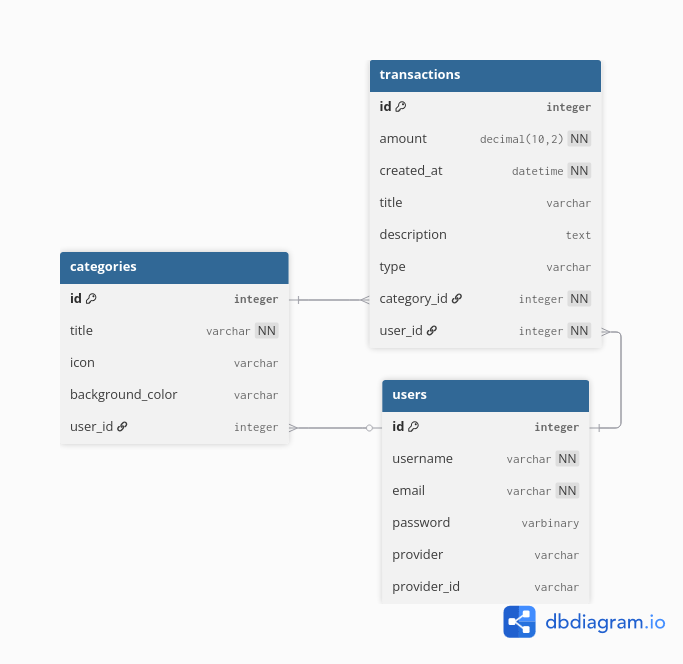
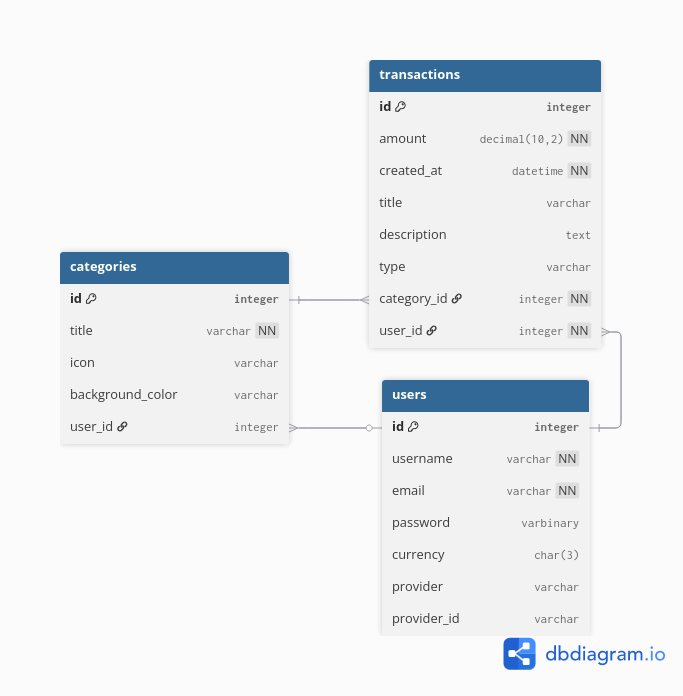
refactored User entity and added "currency" to User table. besides that, refactored and removed unused imports on other files

diff --git a/Backend/Trifolium/src/main/java/com/alorisse/trifolium/controller/UserController.java b/Backend/Trifolium/src/main/java/com/alorisse/trifolium/controller/UserController.java
@@ -2,16 +2,13 @@ package com.alorisse.trifolium.controller;
 
 import com.alorisse.trifolium.mapper.UserMapper;
 import com.alorisse.trifolium.model.dto.UserResponseDTO;
+import com.alorisse.trifolium.model.dto.UserUpdateRequestDTO;
 import com.alorisse.trifolium.model.entity.User;
-import com.alorisse.trifolium.repository.UserRepository;
-import org.springframework.http.HttpStatus;
+import com.alorisse.trifolium.service.UserService;
+import jakarta.validation.Valid;
 import org.springframework.http.ResponseEntity;
 import org.springframework.security.core.Authentication;
-import org.springframework.web.bind.annotation.GetMapping;
-import org.springframework.web.bind.annotation.RequestAttribute;
-import org.springframework.web.bind.annotation.RequestMapping;
-import org.springframework.web.bind.annotation.RestController;
-import org.springframework.web.server.ResponseStatusException;
+import org.springframework.web.bind.annotation.*;
 
 @RestController
 @RequestMapping("/users")
@@ -19,14 +16,36 @@ public class UserController {
 
     private final UserMapper userMapper;
 
-    public UserController(UserMapper userMapper) {
+    private final UserService userService;
+
+    public UserController(UserMapper userMapper, UserService userService) {
         this.userMapper = userMapper;
+        this.userService = userService;
     }
 
     @GetMapping("/me")
     public ResponseEntity<UserResponseDTO> getMe(Authentication authentication) {
         User user = (User) authentication.getPrincipal();
 
+        assert user != null;
+
         return ResponseEntity.ok(userMapper.toDTO(user));
     }
+
+    @PutMapping("/me")
+    public ResponseEntity<UserResponseDTO> updatedMe(@RequestBody @Valid UserUpdateRequestDTO dto, Authentication authentication) {
+        User user = (User) authentication.getPrincipal();
+        UserResponseDTO response = userService.update(user, dto);
+        return ResponseEntity.ok(response);
+    }
+
+    @DeleteMapping("/me")
+    public ResponseEntity<Void> deleteMe(Authentication authentication) {
+        User user = (User) authentication.getPrincipal();
+
+        userService.delete(user);
+
+        return ResponseEntity.noContent().build();
+    }
+
 }

diff --git a/Backend/Trifolium/src/main/java/com/alorisse/trifolium/service/UserService.java b/Backend/Trifolium/src/main/java/com/alorisse/trifolium/service/UserService.java
@@ -50,6 +50,42 @@ public class UserService {
         return new UserLoginResponseDTO(token, user.getUsername(), user.getEmail());
     }
 
+    public UserResponseDTO update(User user, UserUpdateRequestDTO dto) {
+        if (dto.username() != null && !dto.username().isBlank()) {
+            user.setUsername(dto.username());
+        }
+
+        if (dto.email() != null && !dto.email().isBlank()) {
+            if (!user.getEmail().equals(dto.email()) && userRepository.existsByEmail(dto.email())){
+                throw new RuntimeException("Email already in use.");
+            }
+            user.setEmail(dto.email());
+        }
+
+        if (dto.currency() != null && !dto.currency().isBlank()) {
+            user.setCurrency(dto.currency());
+        }
+
+        if (dto.password() != null && !dto.password().isBlank()) {
+            if (dto.oldPassword() == null || !validatePassword(dto.oldPassword(), user.getPassword())) {
+                throw new RuntimeException("Invalid current password");
+            }
+
+            String hashString = passwordEncoder.encode(dto.password());
+            assert hashString != null;
+            user.setPassword(hashString.getBytes(StandardCharsets.UTF_8));
+        }
+
+        User updated = userRepository.save(user);
+
+        return userMapper.toDTO(updated);
+    }
+
+
+    public void delete(User user) {
+        userRepository.delete(user);
+    }
+
     // TODO Create auth code
     public UserResponseDTO createByProvider(UserProviderAuthRequestDTO dto) {
         throw new RuntimeException("Not implemented yet.");
@@ -59,9 +95,5 @@ public class UserService {
         String hash = new String(passwordHash, StandardCharsets.UTF_8);
         
         return passwordEncoder.matches(password, hash);
-    }
-
-    public void delete(User user) {
-        userRepository.delete(user);
     }
 }

diff --git a/Backend/Trifolium/src/main/java/com/alorisse/trifolium/config/SecurityConfig.java b/Backend/Trifolium/src/main/java/com/alorisse/trifolium/config/SecurityConfig.java
@@ -6,6 +6,7 @@ import org.springframework.http.HttpMethod;
 import org.springframework.security.authentication.AuthenticationManager;
 import org.springframework.security.config.annotation.authentication.configuration.AuthenticationConfiguration;
 import org.springframework.security.config.annotation.web.builders.HttpSecurity;
+import org.springframework.security.config.annotation.web.configurers.AbstractHttpConfigurer;
 import org.springframework.security.config.http.SessionCreationPolicy;
 import org.springframework.security.crypto.bcrypt.BCryptPasswordEncoder;
 import org.springframework.security.crypto.password.PasswordEncoder;
@@ -22,9 +23,9 @@ public class SecurityConfig {
     }
 
     @Bean
-    public SecurityFilterChain securityFilterChain(HttpSecurity http) throws Exception {
+    public SecurityFilterChain securityFilterChain(HttpSecurity http) {
         return http
-                .csrf(csrf -> csrf.disable())
+                .csrf(AbstractHttpConfigurer::disable)
                 .sessionManagement(session -> session.sessionCreationPolicy(SessionCreationPolicy.STATELESS))
                 .authorizeHttpRequests(authorize -> authorize
                         .requestMatchers(HttpMethod.POST, "/auth/login").permitAll()
@@ -36,7 +37,7 @@ public class SecurityConfig {
     }
 
     @Bean
-    public AuthenticationManager authenticationManager(AuthenticationConfiguration authenticationConfiguration) throws Exception {
+    public AuthenticationManager authenticationManager(AuthenticationConfiguration authenticationConfiguration) {
         return authenticationConfiguration.getAuthenticationManager();
     }
 

diff --git a/Backend/Trifolium/src/main/java/com/alorisse/trifolium/model/entity/User.java b/Backend/Trifolium/src/main/java/com/alorisse/trifolium/model/entity/User.java
@@ -2,6 +2,7 @@ package com.alorisse.trifolium.model.entity;
 
 import com.alorisse.trifolium.model.enums.AuthProvider;
 import jakarta.persistence.*;
+import org.hibernate.annotations.ColumnDefault;
 
 @Entity
 @Table(name = "users", schema = "public")
@@ -19,6 +20,10 @@ public class User {
 
     @Column(name = "password")
     private byte[] password;
+
+    @Column(name = "currency", nullable = false, length = 3)
+    @ColumnDefault("'USD'")
+    private String currency = "USD";
 
     @Column(name = "provider_id")
     private String providerId;
@@ -42,6 +47,8 @@ public class User {
     public byte[] getPassword() {
         return this.password;
     }
+
+    public String getCurrency() { return currency; }
 
     public String getProviderId() {
         return this.providerId;
@@ -67,11 +74,9 @@ public class User {
         this.password = password;
     }
 
-    public void setProviderId(String providerId) {
-        this.providerId = providerId;
-    }
+    public void setCurrency(String currency) { this.currency = currency; }
 
-    public void setProvider(AuthProvider provider) {
-        this.provider = provider;
-    }
+    public void setProviderId(String providerId) { this.providerId = providerId; }
+
+    public void setProvider(AuthProvider provider) { this.provider = provider; }
 }

diff --git a/Backend/Trifolium/src/main/java/com/alorisse/trifolium/config/SecurityFilter.java b/Backend/Trifolium/src/main/java/com/alorisse/trifolium/config/SecurityFilter.java
@@ -3,11 +3,11 @@ package com.alorisse.trifolium.config;
 import com.alorisse.trifolium.model.entity.User;
 import com.alorisse.trifolium.repository.UserRepository;
 import com.alorisse.trifolium.service.TokenService;
-import com.alorisse.trifolium.service.UserService;
 import jakarta.servlet.FilterChain;
 import jakarta.servlet.ServletException;
 import jakarta.servlet.http.HttpServletRequest;
 import jakarta.servlet.http.HttpServletResponse;
+import org.jspecify.annotations.NonNull;
 import org.springframework.security.authentication.UsernamePasswordAuthenticationToken;
 import org.springframework.security.core.authority.SimpleGrantedAuthority;
 import org.springframework.security.core.context.SecurityContextHolder;
@@ -29,7 +29,7 @@ public class SecurityFilter extends OncePerRequestFilter {
     }
 
     @Override
-    protected void doFilterInternal(HttpServletRequest request, HttpServletResponse response, FilterChain filterChain) throws ServletException, IOException {
+    protected void doFilterInternal(@NonNull HttpServletRequest request, @NonNull HttpServletResponse response, @NonNull FilterChain filterChain) throws ServletException, IOException {
         var token = this.recoverTokenRequest(request);
 
         if (token != null) {

diff --git a/Backend/Trifolium/src/main/java/com/alorisse/trifolium/controller/CategoryController.java b/Backend/Trifolium/src/main/java/com/alorisse/trifolium/controller/CategoryController.java
@@ -2,12 +2,9 @@ package com.alorisse.trifolium.controller;
 
 import com.alorisse.trifolium.model.dto.CategoryRequestDTO;
 import com.alorisse.trifolium.model.dto.CategoryResponseDTO;
-import com.alorisse.trifolium.model.entity.Category;
 import com.alorisse.trifolium.model.entity.User;
-import com.alorisse.trifolium.repository.UserRepository;
 import com.alorisse.trifolium.service.CategoryService;
 import jakarta.validation.Valid;
-import org.hibernate.validator.internal.util.actions.GetDeclaredMethod;
 import org.springframework.http.HttpStatus;
 import org.springframework.http.ResponseEntity;
 import org.springframework.security.core.Authentication;

diff --git a/Backend/Trifolium/src/main/java/com/alorisse/trifolium/config/DataInitializer.java b/Backend/Trifolium/src/main/java/com/alorisse/trifolium/config/DataInitializer.java
@@ -2,6 +2,7 @@ package com.alorisse.trifolium.config;
 
 import com.alorisse.trifolium.model.entity.Category;
 import com.alorisse.trifolium.repository.CategoryRepository;
+import org.jspecify.annotations.NonNull;
 import org.springframework.boot.CommandLineRunner;
 import org.springframework.context.annotation.Configuration;
 
@@ -18,7 +19,7 @@ public class DataInitializer implements CommandLineRunner {
     }
 
     @Override
-    public void run(String... args) throws Exception {
+    public void run(String @NonNull ... args) {
         List<String> defaultCategories = Arrays.asList(
                 "CAT_BILLS",
                 "CAT_DINING",

diff --git a/Backend/Trifolium/src/main/java/com/alorisse/trifolium/mapper/UserMapper.java b/Backend/Trifolium/src/main/java/com/alorisse/trifolium/mapper/UserMapper.java
@@ -14,6 +14,9 @@ public class UserMapper {
         User entity = new User();
         entity.setUsername(dto.username());
         entity.setEmail(dto.email());
+       if (dto.currency() != null && !dto.currency().isBlank()) {
+           entity.setCurrency(dto.currency());
+       }
         return entity;
     }
 
@@ -33,7 +36,8 @@ public class UserMapper {
         return new UserResponseDTO(
                 entity.getId(),
                 entity.getUsername(),
-                entity.getEmail()
+                entity.getEmail(),
+                entity.getCurrency()
         );
     }
 

diff --git a/Backend/Trifolium/src/main/java/com/alorisse/trifolium/controller/TransactionController.java b/Backend/Trifolium/src/main/java/com/alorisse/trifolium/controller/TransactionController.java
@@ -3,7 +3,6 @@ package com.alorisse.trifolium.controller;
 import com.alorisse.trifolium.model.dto.TransactionRequestDTO;
 import com.alorisse.trifolium.model.dto.TransactionResponseDTO;
 import com.alorisse.trifolium.model.entity.User;
-import com.alorisse.trifolium.repository.UserRepository;
 import com.alorisse.trifolium.service.TransactionService;
 import jakarta.validation.Valid;
 import org.springframework.http.HttpStatus;

diff --git a/Backend/Trifolium/src/main/java/com/alorisse/trifolium/model/dto/UserUpdateRequestDTO.java b/Backend/Trifolium/src/main/java/com/alorisse/trifolium/model/dto/UserUpdateRequestDTO.java
@@ -1,0 +1,12 @@
+package com.alorisse.trifolium.model.dto;
+
+import jakarta.validation.constraints.Email;
+import jakarta.validation.constraints.Size;
+
+public record UserUpdateRequestDTO (
+        @Size(min = 3, max = 25) String username,
+        @Email String email,
+        @Size(min = 8) String password,
+        String oldPassword,
+        @Size(min = 3, max = 3) String currency
+) {}

diff --git a/Backend/Trifolium/src/main/java/com/alorisse/trifolium/service/TokenService.java b/Backend/Trifolium/src/main/java/com/alorisse/trifolium/service/TokenService.java
@@ -5,8 +5,6 @@ import com.auth0.jwt.JWT;
 import com.auth0.jwt.algorithms.Algorithm;
 import com.auth0.jwt.exceptions.JWTCreationException;
 import org.springframework.beans.factory.annotation.Value;
-import org.springframework.context.annotation.Bean;
-import org.springframework.stereotype.Component;
 import org.springframework.stereotype.Service;
 
 import java.time.Instant;

diff --git a/Backend/Trifolium/src/main/java/com/alorisse/trifolium/model/dto/UserCreateRequestDTO.java b/Backend/Trifolium/src/main/java/com/alorisse/trifolium/model/dto/UserCreateRequestDTO.java
@@ -7,5 +7,6 @@ import jakarta.validation.constraints.Size;
 public record UserCreateRequestDTO(
         @NotBlank @Size(min = 3, max = 25) String username,
         @NotBlank @Email String email,
-        @NotBlank @Size(min = 8) String password) {
+        @NotBlank @Size(min = 8) String password,
+        @Size(min = 3, max = 3) String currency) {
 }
